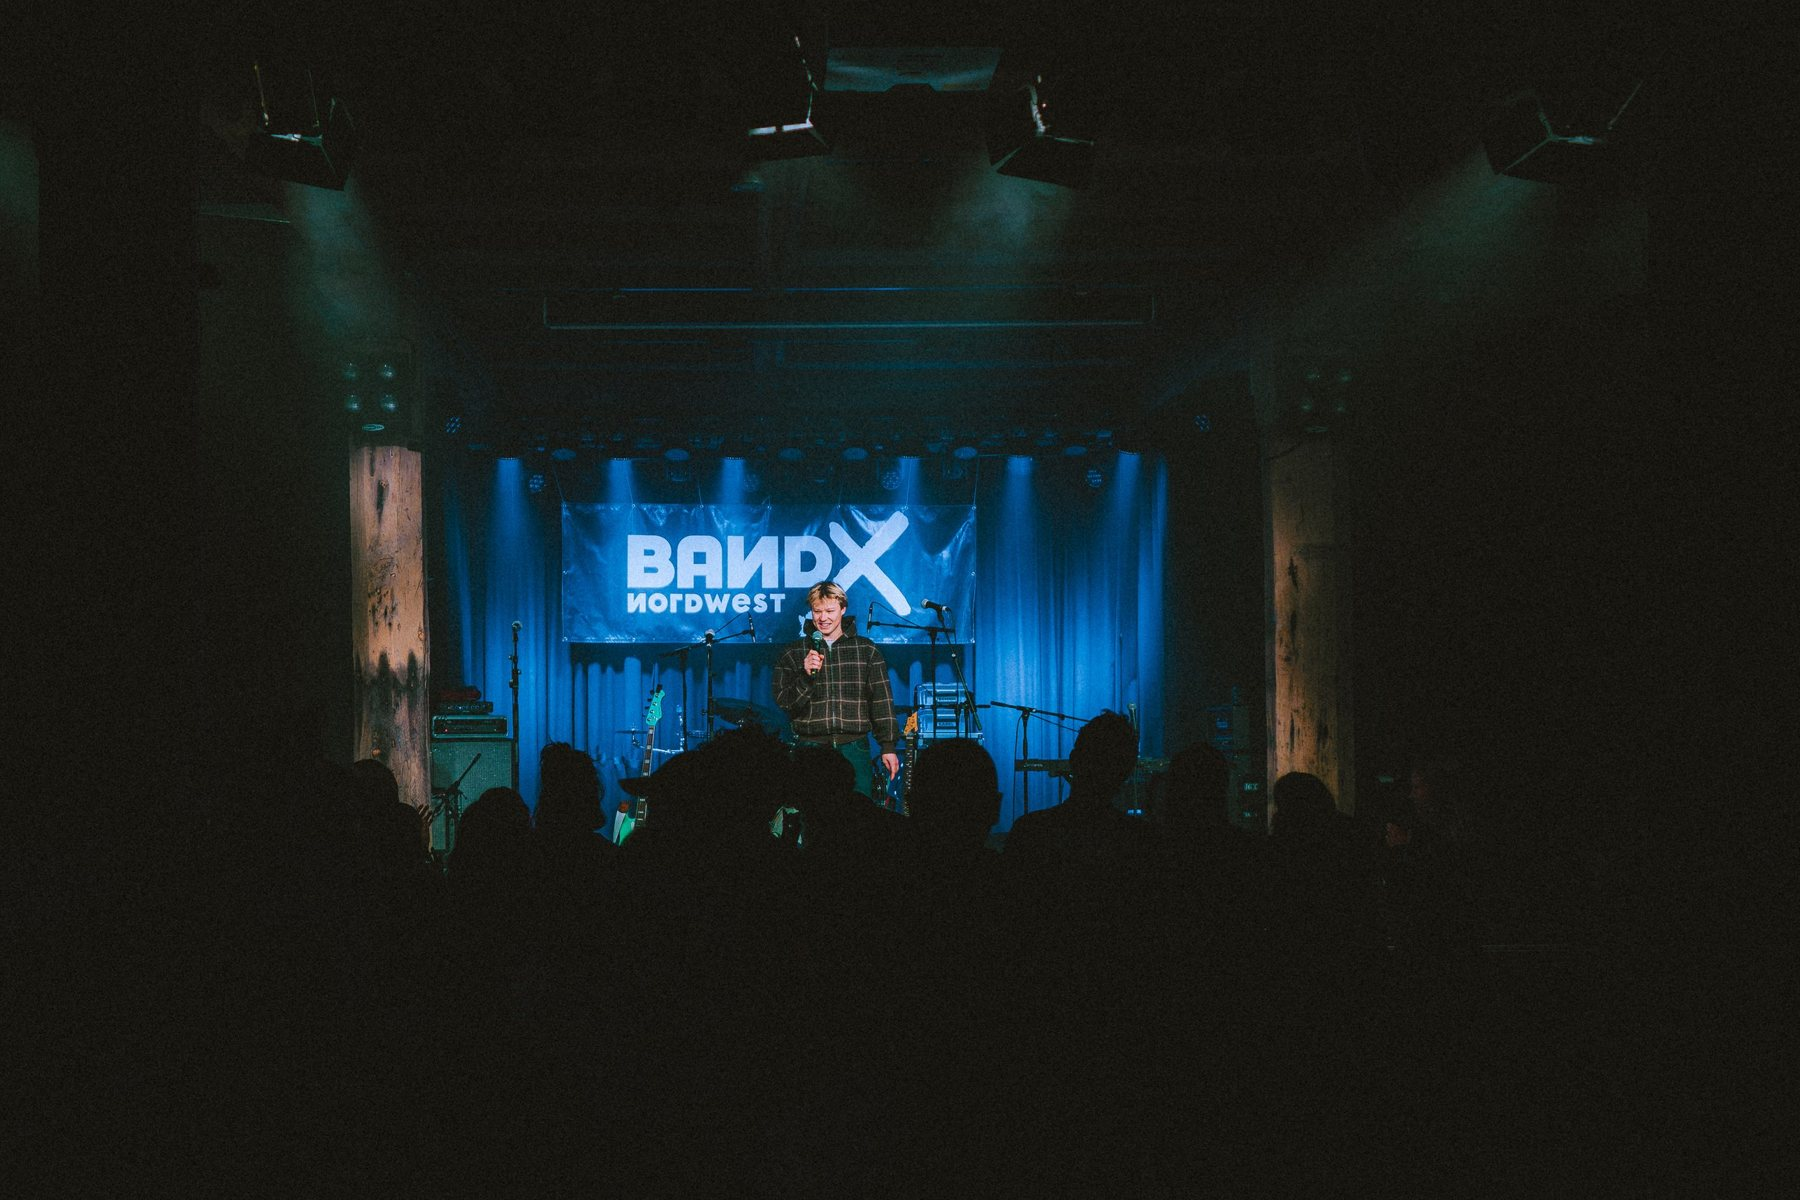
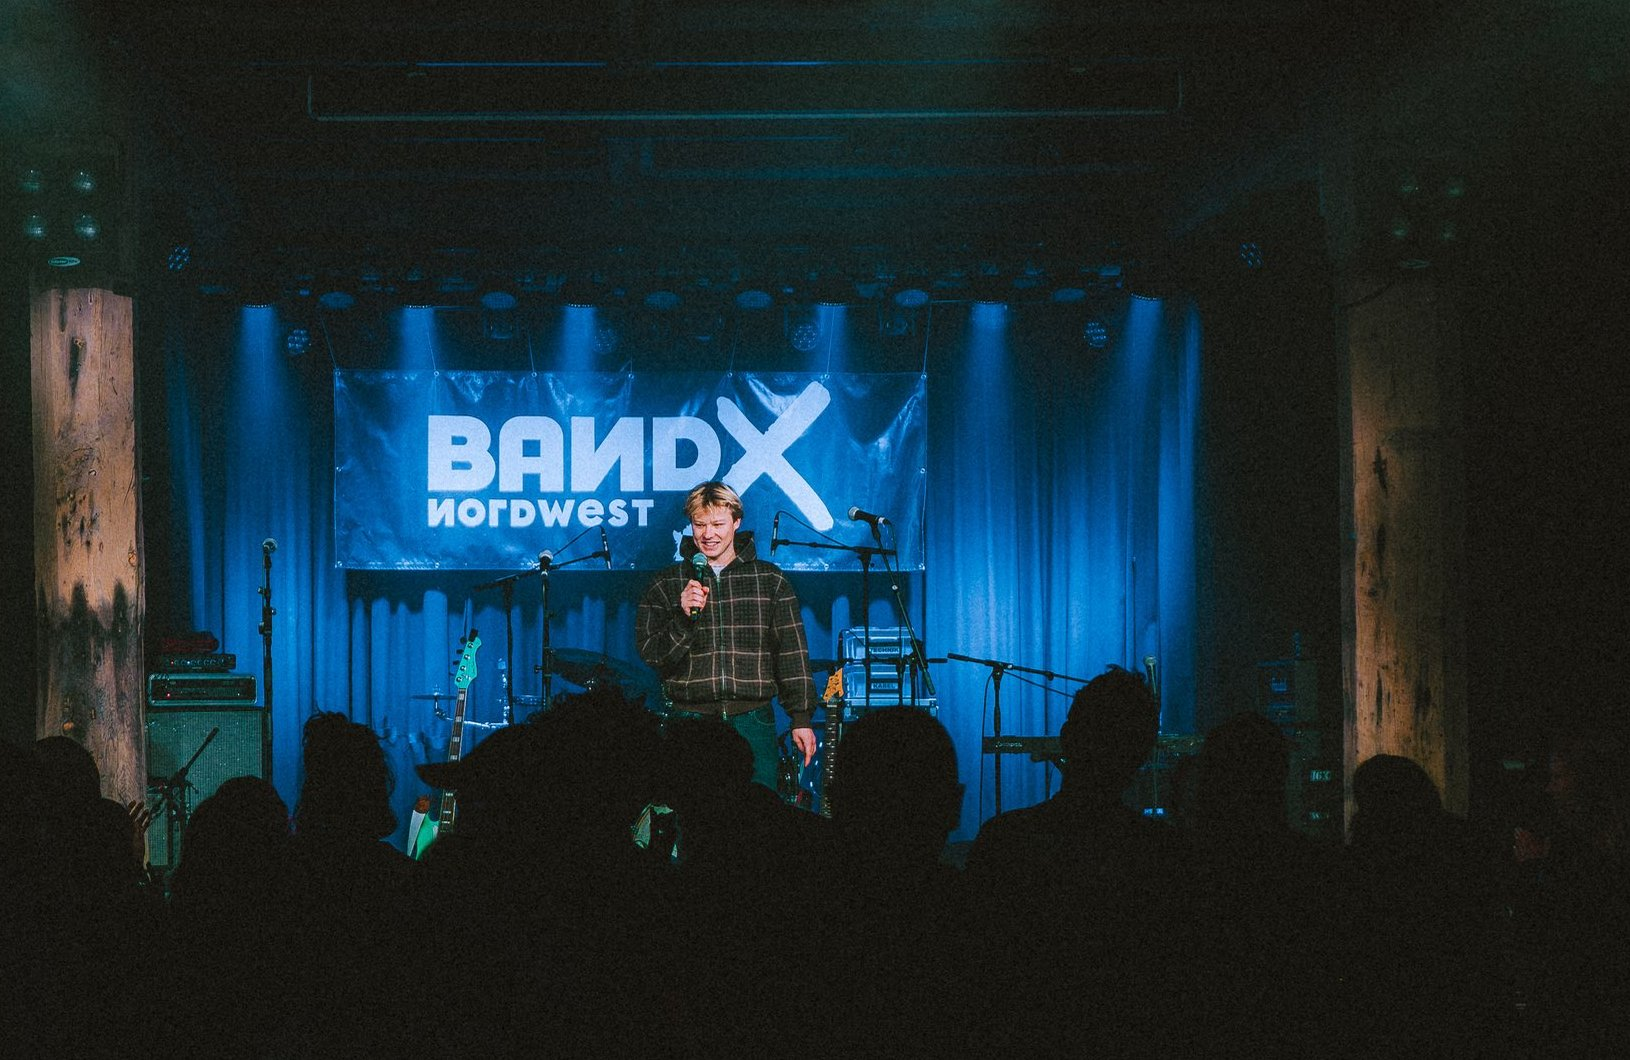
Laufband entfernt, neues Hero-Foto, Bühnenbilder näher zugeschnitten
Claude-Session: https://claude.ai/code/session_01EKx47cMgDgEZSW7Q8BEzPC

diff --git a/index.html b/index.html
@@ -45,14 +45,9 @@
 					<h1 class="hero-name">Alessio<br>Amstutz</h1>
 					<p class="hero-sub">Moderator, Podcaster und Multimedia Producer.</p>
 				</div>
-				<img class="hero-portrait" src="img/AlessioPortrait.jpg" alt="Alessio Amstutz im Porträt">
+				<img class="hero-portrait" src="img/Hero.jpg" alt="Alessio Amstutz lacht und hält ein Mikrofon in die Kamera">
 			</div>
 		</section>
-
-		<!-- ============ Laufband ============ -->
-		<div class="ticker" aria-hidden="true">
-			<div class="ticker-track"><span>Radio</span><span>Podcast</span><span>Video</span><span>Journalismus</span><span>Moderation</span><span>Radio</span><span>Podcast</span><span>Video</span><span>Journalismus</span><span>Moderation</span></div>
-		</div>
 
 		<!-- ============ Projekte (kommen aus der Datenbank) ============ -->
 		<section id="projekte" class="section section-projekte" aria-labelledby="projekte-label">
@@ -77,8 +72,7 @@
 		<section id="buehne" class="section section-buehne" aria-labelledby="buehne-label">
 			<h2 id="buehne-label" class="section-title">Auf der Bühne</h2>
 			<div class="buehne-grid">
-				<figure><img src="img/Buehne-1.jpg" alt="Alessio Amstutz moderiert mit erhobenem Arm auf der Bühne von bandXNordwest" loading="lazy"><figcaption>Moderation bei bandXNordwest</figcaption></figure>
-				<figure><img class="pos-wide" src="img/Buehne-2.jpg" alt="Alessio Amstutz auf der blau beleuchteten Bühne vor dem bandXNordwest-Banner" loading="lazy"><figcaption>Auf der Bühne</figcaption></figure>
+				<figure class="wide"><img class="pos-wide" src="img/Buehne-2.jpg" alt="Alessio Amstutz auf der blau beleuchteten Bühne vor dem bandXNordwest-Banner" loading="lazy"><figcaption>Auf der Bühne</figcaption></figure>
 				<figure><img src="img/Buehne-3.jpg" alt="Bewegungsunschärfe-Porträt von Alessio Amstutz mit Mikrofon" loading="lazy"><figcaption>Mittendrin</figcaption></figure>
 			</div>
 		</section>
@@ -87,7 +81,7 @@
 		<section id="ueber-mich" class="section section-ueber" aria-labelledby="ueber-label">
 			<div class="ueber-grid">
 				<h2 id="ueber-label" class="section-title">Über mich</h2>
-				<figure class="ueber-figure"><img src="img/Ueber-mich.jpg" alt="Alessio Amstutz lacht und hält ein Mikrofon in die Kamera" loading="lazy"></figure>
+				<figure class="ueber-figure"><img src="img/Ueber-mich.jpg" alt="Alessio Amstutz moderiert mit erhobenem Arm auf der Bühne von bandXNordwest" loading="lazy"></figure>
 				<div>
 					<p class="ueber-text">In einem Kinderreporter-Kurs durfte ich zum ersten Mal Radioluft schnuppern. Heute sitze ich selbst hinter dem Mikrofon. Irgendwie ein Full-Circle-Moment.</p>
 					<p class="ueber-text">Ich bin in Obwalden aufgewachsen, studiere Multimedia Production an der Fachhochschule Graubünden und habe eine Schwäche für gute Geschichten. Am liebsten lerne ich neue Menschen kennen, stelle Fragen und finde heraus, was sie zu erzählen haben. Ob im Radiostudio, bei einem Interview oder irgendwo unterwegs.</p>

diff --git a/css/style.css b/css/style.css
@@ -182,7 +182,7 @@ a { color: inherit; }
 	display: grid;
 	grid-template-columns: minmax(0, 1.2fr) minmax(0, 1fr);
 	/* füllt den Bildschirm: Höhe abzüglich Kopfzeile und Laufband */
-	min-height: max(30rem, calc(100svh - 9rem));
+	min-height: max(30rem, calc(100svh - 5rem));
 }
 .hero-text {
 	display: flex;
@@ -214,7 +214,7 @@ a { color: inherit; }
 	height: 100%;
 	min-height: 22rem;
 	object-fit: cover;
-	object-position: center top;
+	object-position: 52% 30%;
 }
 @media (max-width: 800px) {
 	.hero-grid { grid-template-columns: 1fr; min-height: 0; }
@@ -419,7 +419,7 @@ html:has(.window[open]) { overflow: hidden; }
 }
 .ueber-grid .section-title { grid-column: 1 / -1; }
 .ueber-figure { margin: 0; }
-.ueber-figure img { display: block; width: 100%; aspect-ratio: 4 / 5; object-fit: cover; object-position: 57% 40%; border-radius: var(--radius); }
+.ueber-figure img { display: block; width: 100%; aspect-ratio: 4 / 5; object-fit: cover; object-position: 50% 50%; border-radius: var(--radius); }
 .ueber-grid .section-title { margin-bottom: 0; font-size: clamp(1.5rem, 2.4vw, 2rem); letter-spacing: -0.01em; }
 .ueber-statement {
 	margin-bottom: 2rem;
@@ -438,9 +438,12 @@ html:has(.window[open]) { overflow: hidden; }
 .buehne-grid { display: grid; grid-template-columns: repeat(3, minmax(0, 1fr)); gap: clamp(0.75rem, 2vw, 1.75rem); }
 .buehne-grid figure { margin: 0; }
 .buehne-grid img { display: block; width: 100%; aspect-ratio: 4 / 5; object-fit: cover; border-radius: var(--radius); background: #000; }
-.buehne-grid img.pos-wide { object-position: 45% 50%; }
+.buehne-grid figure.wide { grid-column: span 2; }
+.buehne-grid figure.wide img { aspect-ratio: auto; height: 100%; object-position: 50% 50%; }
+.buehne-grid figure { display: flex; flex-direction: column; }
+.buehne-grid figure img { flex: 1; min-height: 0; }
 .buehne-grid figcaption { margin-top: 0.7rem; font-size: 0.95rem; opacity: 0.8; }
-@media (max-width: 700px) { .buehne-grid { grid-template-columns: 1fr; } }
+@media (max-width: 700px) { .buehne-grid { grid-template-columns: 1fr; } .buehne-grid figure.wide { grid-column: auto; } .buehne-grid figure.wide img { aspect-ratio: 3 / 2; height: auto; } }
 
 /* ---------- 7 Kontakt (blaue Fläche) ---------- */
 .section-kontakt { background: var(--blue); color: #fff; }
